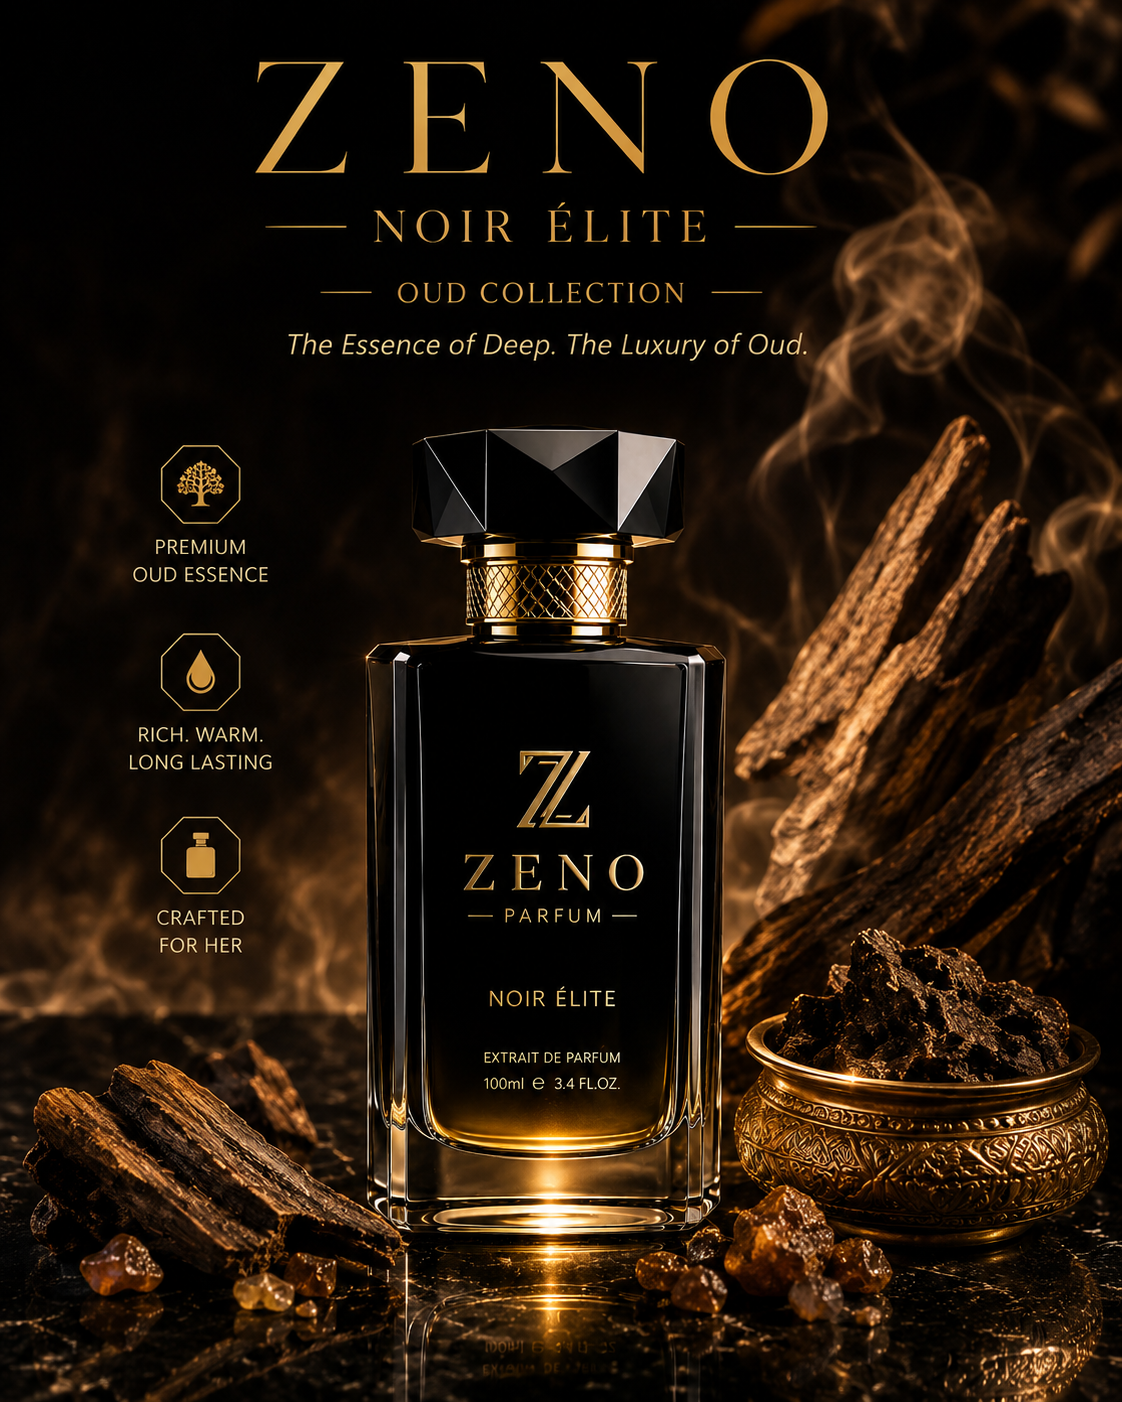
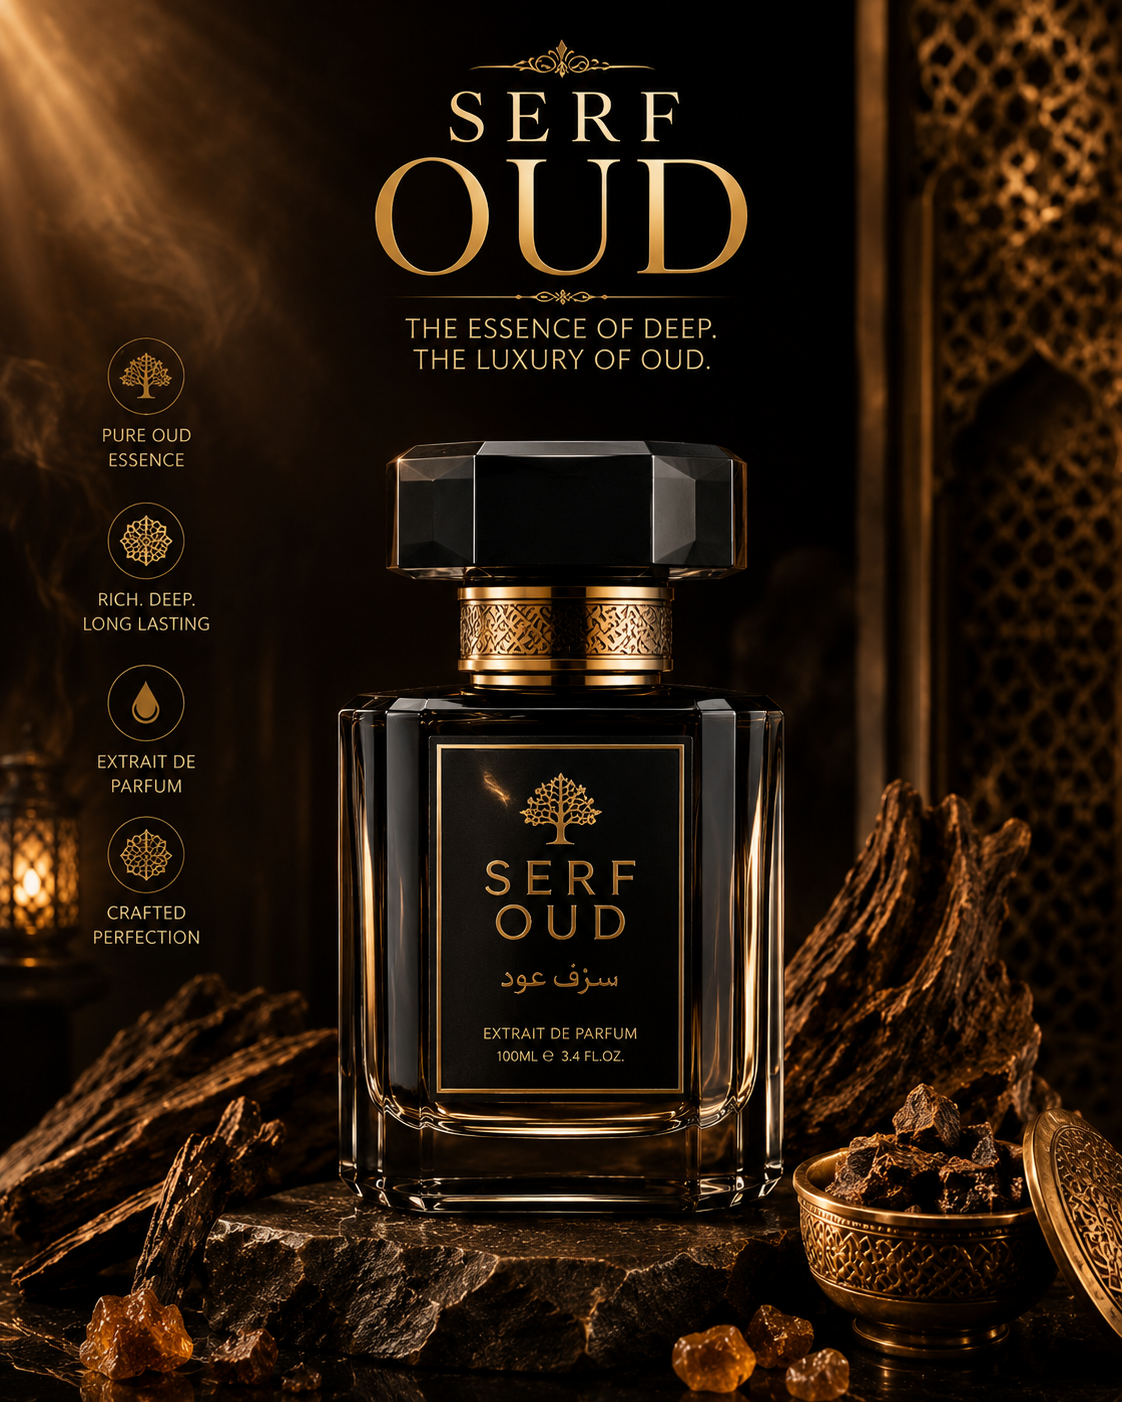
fix mobail hero vedio

diff --git a/src/pages/Home.jsx b/src/pages/Home.jsx
@@ -48,6 +48,23 @@ function Hero() {
       ref={ref}
       className="relative h-screen min-h-[640px] flex items-center justify-center overflow-hidden bg-gold-fade"
     >
+      {/* Mobile only: video as a soft background so text stays readable and
+          nothing looks cramped on small screens. Desktop layout below is
+          untouched. */}
+      <div className="absolute inset-0 md:hidden">
+        <video
+          autoPlay
+          muted
+          loop
+          playsInline
+          poster="/hero-poster.jpg"
+          className="w-full h-full object-cover opacity-35"
+        >
+          <source src="/hero-video.mp4" type="video/mp4" />
+        </video>
+        <div className="absolute inset-0 bg-gradient-to-b from-noir/60 via-noir/70 to-noir/90" />
+      </div>
+
       <div
         className="absolute inset-0 opacity-40"
         style={{